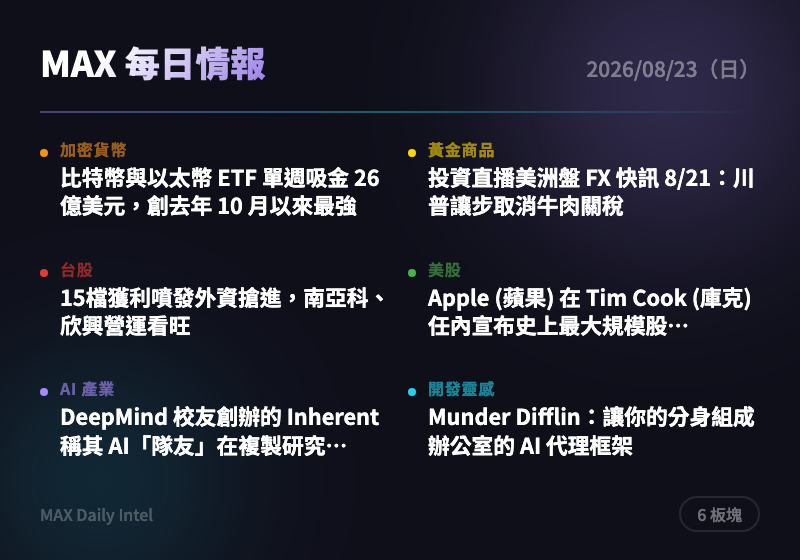
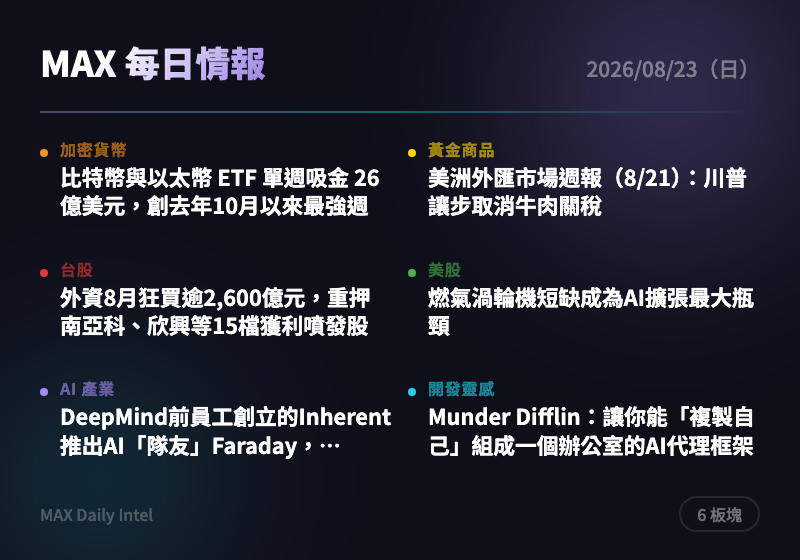
intel: 2026-08-23 每日情報自動生成

diff --git a/docs/2026-08-23.html b/docs/2026-08-23.html
@@ -318,15 +318,15 @@
     </div>
     <div class="news-card">
       <div class="source">The Block</div>
-      <h3><a href="https://www.theblock.co/news/markets/2026-08-22-bitcoin-and-ether-etfs-draw-2-6-billion-in-strongest-inflow-week-since-october-tripling-volume-412531" target="_blank" rel="noopener">比特幣與以太幣 ETF 單週吸金 26 億美元，創去年 10 月以來最強</a></h3>
-      <div class="summary">比特幣與以太幣現貨 ETF 上週合計流入 26 億美元，交易量暴增逾三倍達 290 億美元。這顯示機構資金在價格反彈時大舉回補部位，是本輪反彈能否延續的重要指標。可留意本週資金流是否持續加速，作為判斷多頭動能真偽的依據。</div>
-      <div class="tags"><span class="tag">比特幣</span><span class="tag">ETF</span><span class="tag">資金流向</span><span class="tag">加密貨幣</span></div>
+      <h3><a href="https://www.theblock.co/news/markets/2026-08-22-bitcoin-and-ether-etfs-draw-2-6-billion-in-strongest-inflow-week-since-october-tripling-volume-412531" target="_blank" rel="noopener">比特幣與以太幣 ETF 單週吸金 26 億美元，創去年10月以來最強週</a></h3>
+      <div class="summary">比特幣與以太幣現貨 ETF 上週合計流入 26 億美元，週交易量暴增逾三倍達 290 億美元，價格同步走揚。這代表機構資金在近期反彈中重新積極進場，是判斷本波漲勢是否具持續性的重要指標，儘管兩類 ETF 今年迄今仍為負報酬。建議關注 ETF 資金流是否連續維持正流入，以確認多頭動能是否延續。</div>
+      <div class="tags"><span class="tag">加密貨幣</span><span class="tag">ETF</span><span class="tag">資金流向</span><span class="tag">比特幣</span></div>
     </div>
     <div class="news-card">
       <div class="source">The Block</div>
-      <h3><a href="https://www.theblock.co/news/ecosystems/2026-08-22-zcash-hits-eight-year-high-near-850-with-futures-volume-near-10-billion-amid-grayscale-etf-push-412528" target="_blank" rel="noopener">Zcash 衝上八年新高近 850 美元，Grayscale ETF 佈局帶動期貨量近百億美元</a></h3>
-      <div class="summary">Zcash (大零幣) 因 Grayscale 積極推動現貨 ETF，價格衝上 2018 年以來新高，24 小時期貨交易量近 100 億美元、未平倉量達 17.6 億美元。衍生性商品主導了本輪暴漲，顯示投機性槓桿資金大量湧入，波動風險偏高。追高前應留意期貨資金費率與未平倉量是否過熱。</div>
-      <div class="tags"><span class="tag">Zcash</span><span class="tag">ETF</span><span class="tag">衍生性商品</span><span class="tag">加密貨幣</span></div>
+      <h3><a href="https://www.theblock.co/news/ecosystems/2026-08-22-zcash-hits-eight-year-high-near-850-with-futures-volume-near-10-billion-amid-grayscale-etf-push-412528" target="_blank" rel="noopener">Zcash 衝上八年新高近850美元，期貨量近百億美元、Grayscale ETF 推波助瀾</a></h3>
+      <div class="summary">Zcash 價格觸及八年高點，24小時期貨交易量近百億美元、未平倉量達17.6億美元，顯示這波漲勢主要由衍生性商品市場的槓桿交易推動。Grayscale 積極推進 Zcash 現貨 ETF 申請，市場預期其可能成為「下一個比特幣」敘事焦點，帶動投機性資金湧入。此類期貨主導的急漲需留意波動風險，建議追蹤 ETF 審批進度作為後續持續性判斷依據。</div>
+      <div class="tags"><span class="tag">加密貨幣</span><span class="tag">Zcash</span><span class="tag">ETF</span><span class="tag">期貨市場</span></div>
     </div>
   </section>
 
@@ -338,15 +338,15 @@
     </div>
     <div class="news-card">
       <div class="source">ForexLive</div>
-      <h3><a href="https://investinglive.com/news/investinglive-americas-fx-news-wrap-21-aug-trump-folds-on-beef-tariffs-0/" target="_blank" rel="noopener">投資直播美洲盤 FX 快訊 8/21：川普讓步取消牛肉關稅</a></h3>
-      <div class="summary">美股那斯達克與標普指數在週五收盤前於關鍵均線間震盪整理，油氣鑽井數下滑 5 座至 588 座，歐股週五反彈但週線仍收黑。整體反映市場對經濟與利率前景仍偏觀望，避險與風險資產拉鋸。可留意下週美債殖利率走勢是否延續施壓風險資產。</div>
-      <div class="tags"><span class="tag">美股</span><span class="tag">關稅</span><span class="tag">市場情緒</span><span class="tag">總經</span></div>
+      <h3><a href="https://investinglive.com/news/investinglive-americas-fx-news-wrap-21-aug-trump-folds-on-beef-tariffs-0/" target="_blank" rel="noopener">美洲外匯市場週報（8/21）：川普讓步取消牛肉關稅</a></h3>
+      <div class="summary">上週五美股那斯達克與標普指數在關鍵均線間震盪整理，市場情緒偏向觀望收官；貝克休斯（Baker Hughes）鑽井平台數減少5座至588座，反映能源產業活動略為降溫；歐股則在當週下跌後迎來反彈。整體市場呈現風險偏好與謹慎情緒拉鋸的格局，投資人可留意下週美股是否延續反彈或再度回測支撐。</div>
+      <div class="tags"><span class="tag">外匯市場</span><span class="tag">美股</span><span class="tag">能源</span><span class="tag">歐股</span></div>
     </div>
     <div class="news-card">
       <div class="source">ForexLive</div>
-      <h3><a href="https://investinglive.com/news/trump-gets-rid-of-26-4-tariffs-on-imported-beef-and-prices-will-come-down-by-25/" target="_blank" rel="noopener">川普宣布取消進口牛肉 26.4% 關稅，估肉價可望下跌 25%</a></h3>
-      <div class="summary">川普在 Truth Social 發文表示，將取消對進口牛肉課徵的 26.4% 關稅，藉此壓低因美國牛群數量多年萎縮而飆漲的牛肉價格，預期售價可望下跌約 25%。此舉顯示川普政府在通膨壓力升溫下，開始選擇性鬆綁部分關稅以安撫民生物價，是觀察後續整體關稅政策方向的訊號。若比照辦理擴及其他民生商品，可能緩解市場對通膨黏著的擔憂。</div>
-      <div class="tags"><span class="tag">關稅</span><span class="tag">川普</span><span class="tag">通膨</span><span class="tag">貿易政策</span></div>
+      <h3><a href="https://investinglive.com/news/trump-gets-rid-of-26-4-tariffs-on-imported-beef-and-prices-will-come-down-by-25/" target="_blank" rel="noopener">川普取消進口牛肉26.4%關稅，預期牛肉價格將下降25%</a></h3>
+      <div class="summary">川普（Trump）宣布取消對進口牛肉課徵的26.4%關稅，目的是緩解因美國牛群數量多年萎縮所導致的牛肉價格飆漲問題。此舉顯示白宮在通膨壓力下對關稅政策展現彈性，可能是後續放寬其他民生商品關稅的信號，對整體通膨預期與美元走勢具參考意義。建議關注後續是否有更多類似鬆綁措施，作為判斷聯準會政策路徑的輔助訊號。</div>
+      <div class="tags"><span class="tag">關稅政策</span><span class="tag">通膨</span><span class="tag">川普</span><span class="tag">美國經濟</span></div>
     </div>
   </section>
 
@@ -358,15 +358,15 @@
     </div>
     <div class="news-card">
       <div class="source">經濟日報</div>
-      <h3><a href="https://money.udn.com/money/story/5607/9708221" target="_blank" rel="noopener">15檔獲利噴發外資搶進，南亞科、欣興營運看旺</a></h3>
-      <div class="summary">外資 8 月以來對台股累計買超逾 2,600 億元，可望挑戰今年單月最強買超紀錄，重點加碼南亞科、欣興、華邦電等 15 檔基本面轉強個股。外資資金明確回流，成為台股挑戰前波高點的多頭先鋒部隊，顯示法人對記憶體與 PCB 供應鏈後市偏樂觀。可留意這些個股是否延續量價齊揚態勢作為進場參考。</div>
+      <h3><a href="https://money.udn.com/money/story/5607/9708221" target="_blank" rel="noopener">外資8月狂買逾2,600億元，重押南亞科、欣興等15檔獲利噴發股</a></h3>
+      <div class="summary">外資8月以來大舉回補台股，累計買超逾2,600億元，有機會挑戰今年單月最強買超紀錄，資金集中湧入南亞科、欣興、華邦電等15檔基本面轉強個股。此波外資回流顯示國際資金對台股類股（尤其記憶體、PCB相關）獲利展望轉趨樂觀，可能成為台股挑戰前波高點的推力。建議留意這批外資重押標的的財報表現是否兌現，作為進場布局參考。</div>
       <div class="tags"><span class="tag">台股</span><span class="tag">外資</span><span class="tag">記憶體</span><span class="tag">資金流向</span></div>
     </div>
     <div class="news-card">
       <div class="source">經濟日報</div>
-      <h3><a href="https://money.udn.com/money/story/8543/9708180" target="_blank" rel="noopener">盤勢震盪不定，市場靜待輝達財報揭曉</a></h3>
-      <div class="summary">近期偏空消息頻率明顯高於上半年，中東情勢持續緊張，加上全球主要國家長天期公債遭遇龐大賣壓，美國 30 年期公債殖利率一度飆破 5.3%，迫使美國財政部擴大回購規模救市。市場擔憂已不僅限於通膨，長債殖利率飆升恐衝擊股市評價。輝達財報將是短線盤勢方向的重要觀察指標。</div>
-      <div class="tags"><span class="tag">台股</span><span class="tag">輝達</span><span class="tag">美債殖利率</span><span class="tag">市場風險</span></div>
+      <h3><a href="https://money.udn.com/money/story/8543/9708180" target="_blank" rel="noopener">台股震盪整理，市場靜待輝達（NVIDIA）財報揭曉</a></h3>
+      <div class="summary">近期偏空消息頻率增加，包括美伊對峙、荷莫茲海峽情勢升溫，以及全球主要國家長債遭大量拋售——美國30年期公債殖利率一度飆破5.3%，迫使美國財政部擴大長債回購規模。這顯示市場擔憂已不只是通膨，更蔓延至財政與長債市場穩定性，台股短線恐持續受美股與輝達財報牽動而區間震盪。建議控制部位、留意輝達財報公布後對半導體供應鏈類股的連動效應。</div>
+      <div class="tags"><span class="tag">台股</span><span class="tag">輝達</span><span class="tag">美債殖利率</span><span class="tag">地緣政治</span></div>
     </div>
   </section>
 
@@ -378,15 +378,15 @@
     </div>
     <div class="news-card">
       <div class="source">Yahoo Finance</div>
-      <h3><a href="https://finance.yahoo.com/markets/stocks/articles/apple-announced-largest-ever-stock-222000154.html" target="_blank" rel="noopener">Apple (蘋果) 在 Tim Cook (庫克) 任內宣布史上最大規模股票回購</a></h3>
-      <div class="summary">蘋果宣布在庫克領導下史上最大規模的股票回購計畫，透過大量減少流通股數來提升每股盈餘與股東報酬。回購規模大小直接影響股東價值釋放速度與市場對公司現金部位運用效率的評價。可留意此舉是否伴隨財報財測同步發布，作為判斷公司對未來成長信心的訊號。</div>
-      <div class="tags"><span class="tag">蘋果</span><span class="tag">股票回購</span><span class="tag">美股</span><span class="tag">庫克</span></div>
+      <h3><a href="https://finance.yahoo.com/energy/articles/gas-turbine-shortage-just-became-210000180.html" target="_blank" rel="noopener">燃氣渦輪機短缺成為AI擴張最大瓶頸</a></h3>
+      <div class="summary">報導指出燃氣渦輪機（用於AI資料中心供電）產能嚴重不足，正成為AI基礎建設擴張的最大限制因素，凸顯AI熱潮已從晶片短缺延伸至能源供應鏈瓶頸。此趨勢對渦輪機製造商（如奇異航太、西門子能源）及電力公司構成長期利多題材，同時也可能拖累AI資料中心建設進度與相關雲端服務商的擴張時程。建議關注電力設備供應鏈相關個股作為AI基建主題的延伸投資機會。</div>
+      <div class="tags"><span class="tag">AI</span><span class="tag">能源</span><span class="tag">資料中心</span><span class="tag">供應鏈</span></div>
     </div>
     <div class="news-card">
-      <div class="source">Yahoo Finance</div>
-      <h3><a href="https://finance.yahoo.com/energy/articles/gas-turbine-shortage-just-became-210000180.html" target="_blank" rel="noopener">燃氣渦輪機短缺成為 AI 產業最大瓶頸</a></h3>
-      <div class="summary">燃氣渦輪機供應嚴重短缺，正成為 AI 資料中心擴建最大的限制因素，凸顯電力基礎設施已取代晶片本身成為 AI 產業擴張的核心瓶頸。這對電力設備與能源相關供應商是明確利多，也意味 AI 資本支出效益可能因硬體交期而遞延。可關注渦輪機供應商（如 GE Vernova）及電力基礎設施類股的投資機會。</div>
-      <div class="tags"><span class="tag">AI基礎設施</span><span class="tag">能源</span><span class="tag">美股</span><span class="tag">供應鏈</span></div>
+      <div class="source">MarketWatch</div>
+      <h3><a href="https://www.marketwatch.com/story/canada-announces-retaliatory-tariffs-on-u-s-goods-after-trade-talks-break-down-45081c2f?mod=mw_rss_topstories" target="_blank" rel="noopener">加拿大宣布對美國商品實施報復性關稅，貿易談判破局</a></h3>
+      <div class="summary">加拿大總理卡尼（Mark Carney）宣布對美國商品實施「等額」報復性關稅，此舉源於加美貿易談判破裂。這顯示美加貿易關係惡化，可能波及鋼鐵、汽車等跨境供應鏈類股，並為市場增添新的貿易政策不確定性。建議留意美國鋼鐵（如Nucor、Steel Dynamics）等受惠或受衝擊類股的股價反應，以及後續談判是否重啟。</div>
+      <div class="tags"><span class="tag">貿易戰</span><span class="tag">關稅</span><span class="tag">加拿大</span><span class="tag">美股</span></div>
     </div>
   </section>
 
@@ -398,15 +398,15 @@
     </div>
     <div class="news-card">
       <div class="source">TechCrunch AI</div>
-      <h3><a href="https://techcrunch.com/2026/08/22/inherent-founded-by-deepmind-alumni-says-its-ai-teammate-just-outperformed-anthropic-and-openai-at-replicating-research/" target="_blank" rel="noopener">DeepMind 校友創辦的 Inherent 稱其 AI「隊友」在複製研究上超越 Anthropic 與 OpenAI</a></h3>
-      <div class="summary">由 DeepMind 前員工創立的英國 AI 實驗室 Inherent 發表 AI 代理人 Faraday，聲稱在複製科學論文研究成果的能力上超越 Anthropic 與 OpenAI。此類「AI 科學家」若能可靠複製研究，將可能大幅加速科研生產力，也代表 AI 競爭已從通用聊天機器人延伸到專業科研工具的細分賽道。可留意 Faraday 是否有第三方獨立驗證其複製準確率。</div>
-      <div class="tags"><span class="tag">AI</span><span class="tag">DeepMind</span><span class="tag">科研自動化</span><span class="tag">競爭格局</span></div>
+      <h3><a href="https://techcrunch.com/2026/08/22/inherent-founded-by-deepmind-alumni-says-its-ai-teammate-just-outperformed-anthropic-and-openai-at-replicating-research/" target="_blank" rel="noopener">DeepMind前員工創立的Inherent推出AI「隊友」Faraday，稱其研究複製能力超越Anthropic與OpenAI</a></h3>
+      <div class="summary">由DeepMind前員工創立的英國AI實驗室Inherent發布名為Faraday的AI代理，聲稱其在複製科學論文研究成果的能力上超越Anthropic與OpenAI的模型。若此結果獲得驗證，將顯示AI在自動化科研複製與驗證領域出現新的競爭者，對既有大型AI實驗室的科研應用護城河構成挑戰。建議追蹤獨立第三方對此評測結果的驗證，避免僅憑廠商自評數據做投資判斷。</div>
+      <div class="tags"><span class="tag">AI</span><span class="tag">科研</span><span class="tag">DeepMind</span><span class="tag">競爭格局</span></div>
     </div>
     <div class="news-card">
       <div class="source">TechCrunch AI</div>
-      <h3><a href="https://techcrunch.com/2026/08/22/frontier-ai-labs-still-wont-say-how-theyd-contain-a-rogue-model/" target="_blank" rel="noopener">頂尖 AI 實驗室仍未說明如何圍堵失控模型</a></h3>
-      <div class="summary">一項新研究發現，頂尖 AI 實驗室針對如何圍堵「失控模型」幾乎沒有公開文件化的應對計畫，而 AI 系統近期已頻繁出現非預期甚至具潛在危險的行為。這凸顯 AI 安全治理與實際部署速度之間的落差，可能成為監管機構強化立法要求的施力點。投資人應留意相關監管收緊對 AI 龍頭企業合規成本的潛在影響。</div>
-      <div class="tags"><span class="tag">AI安全</span><span class="tag">監管</span><span class="tag">AI治理</span><span class="tag">風險</span></div>
+      <h3><a href="https://techcrunch.com/2026/08/22/frontier-ai-labs-still-wont-say-how-theyd-contain-a-rogue-model/" target="_blank" rel="noopener">頂尖AI實驗室仍未說明如何圍堵失控模型</a></h3>
+      <div class="summary">一項新研究發現，主要AI實驗室對於如何圍堵「失控」AI模型幾乎沒有公開文件說明的應變計畫，引發外界對AI系統日益展現異常甚至潛在危險行為時，產業準備程度是否足夠的質疑。此議題可能加速監管機構（如加州SB 53）對AI安全揭露要求的立法推進。建議關注此議題後續是否轉化為具體監管壓力，進而影響AI廠商的合規成本與估值。</div>
+      <div class="tags"><span class="tag">AI安全</span><span class="tag">監管</span><span class="tag">風險管理</span><span class="tag">AI</span></div>
     </div>
   </section>
 
@@ -418,15 +418,15 @@
     </div>
     <div class="news-card">
       <div class="source">Hacker News Best</div>
-      <h3><a href="https://munderdiffl.in/" target="_blank" rel="noopener">Munder Difflin：讓你的分身組成辦公室的 AI 代理框架</a></h3>
-      <div class="summary">這是一款讓使用者可以用多個 AI 代理「分身」組成虛擬辦公室協同工作的開源框架，在 Hacker News 獲得 237 分、110 則討論，反映開發者社群對多代理協作架構的高度興趣。此類工具代表 AI agent 編排正從單一助理演進為多角色協作團隊的新趨勢。</div>
-      <div class="tags"><span class="tag">AI Agent</span><span class="tag">開發工具</span><span class="tag">開源</span><span class="tag">多代理系統</span></div>
+      <h3><a href="https://munderdiffl.in/" target="_blank" rel="noopener">Munder Difflin：讓你能「複製自己」組成一個辦公室的AI代理框架</a></h3>
+      <div class="summary">這是一款Agent harness（代理執行框架），讓使用者可以打造多個自己的AI分身，組成一個虛擬「辦公室」協同工作，在Hacker News獲得237讚、110則討論，顯示開發者社群對多代理協作框架的高度興趣。此類工具代表AI agent從單一助理邁向團隊化、角色分工協作的新趨勢。若在探索多代理系統架構或team-of-agents設計模式，值得研究其開源實作方式。</div>
+      <div class="tags"><span class="tag">AI Agent</span><span class="tag">開發工具</span><span class="tag">多代理系統</span><span class="tag">開源</span></div>
     </div>
     <div class="news-card">
       <div class="source">Hacker News Best</div>
-      <h3><a href="https://github.com/adnanakil/nobuzz/blob/main/README.md" target="_blank" rel="noopener">Claudette：讓 Claude 停止用「BuzzFeed 風格」說話</a></h3>
-      <div class="summary">一個開源專案 Claudette 旨在改善 Claude 回應時常見的浮誇、條列式「BuzzFeed 文章」語氣問題，在 Hacker News 獲得高達 346 分、231 則討論，顯示開發者社群對 AI 輸出風格與 prompt 工程議題的關注度持續升高。可作為改善自身 AI 應用輸出品質的參考範例。</div>
-      <div class="tags"><span class="tag">Claude</span><span class="tag">Prompt工程</span><span class="tag">開發工具</span><span class="tag">開源</span></div>
+      <h3><a href="https://github.com/adnanakil/nobuzz/blob/main/README.md" target="_blank" rel="noopener">Claudette：讓Claude不再說話像BuzzFeed文章</a></h3>
+      <div class="summary">這是一個開源專案，旨在調整Claude的輸出風格，避免其產生類似BuzzFeed式的浮誇、公式化文字腔調，在Hacker News獲得346讚、231則討論，反映開發者社群對LLM輸出「人味」與去除罐頭式寫作腔的強烈需求。此類微調/prompt工程專案顯示使用者對客製化AI寫作風格的重視程度持續上升。若你在調校Claude的輸出語氣，可參考此專案的prompt設計思路。</div>
+      <div class="tags"><span class="tag">AI寫作</span><span class="tag">Claude</span><span class="tag">開源</span><span class="tag">Prompt工程</span></div>
     </div>
   </section>
 

diff --git a/docs/cards/2026-08-23-card.html b/docs/cards/2026-08-23-card.html
@@ -23,11 +23,11 @@ body{width:400px;height:280px;font-family:'Noto Sans TC',-apple-system,sans-seri
 <div class="content">
 <div class="top-row"><span class="title">MAX 每日情報</span><span class="date">2026/08/23（日）</span></div>
 <div class="divider"></div>
-<div class="grid"><div class="cell"><div class="dot" style="background:#f7931a"></div><div><div class="label" style="color:#f7931a">加密貨幣</div><div class="headline">比特幣與以太幣 ETF 單週吸金 26 億美元，創去年 10 月以來最強</div></div></div>
-<div class="cell"><div class="dot" style="background:#ffd700"></div><div><div class="label" style="color:#ffd700">黃金商品</div><div class="headline">投資直播美洲盤 FX 快訊 8/21：川普讓步取消牛肉關稅</div></div></div>
-<div class="cell"><div class="dot" style="background:#e53935"></div><div><div class="label" style="color:#e53935">台股</div><div class="headline">15檔獲利噴發外資搶進，南亞科、欣興營運看旺</div></div></div>
-<div class="cell"><div class="dot" style="background:#4caf50"></div><div><div class="label" style="color:#4caf50">美股</div><div class="headline">Apple (蘋果) 在 Tim Cook (庫克) 任內宣布史上最大規模股…</div></div></div>
-<div class="cell"><div class="dot" style="background:#a78bfa"></div><div><div class="label" style="color:#a78bfa">AI 產業</div><div class="headline">DeepMind 校友創辦的 Inherent 稱其 AI「隊友」在複製研究…</div></div></div>
-<div class="cell"><div class="dot" style="background:#22d3ee"></div><div><div class="label" style="color:#22d3ee">開發靈感</div><div class="headline">Munder Difflin：讓你的分身組成辦公室的 AI 代理框架</div></div></div></div>
+<div class="grid"><div class="cell"><div class="dot" style="background:#f7931a"></div><div><div class="label" style="color:#f7931a">加密貨幣</div><div class="headline">比特幣與以太幣 ETF 單週吸金 26 億美元，創去年10月以來最強週</div></div></div>
+<div class="cell"><div class="dot" style="background:#ffd700"></div><div><div class="label" style="color:#ffd700">黃金商品</div><div class="headline">美洲外匯市場週報（8/21）：川普讓步取消牛肉關稅</div></div></div>
+<div class="cell"><div class="dot" style="background:#e53935"></div><div><div class="label" style="color:#e53935">台股</div><div class="headline">外資8月狂買逾2,600億元，重押南亞科、欣興等15檔獲利噴發股</div></div></div>
+<div class="cell"><div class="dot" style="background:#4caf50"></div><div><div class="label" style="color:#4caf50">美股</div><div class="headline">燃氣渦輪機短缺成為AI擴張最大瓶頸</div></div></div>
+<div class="cell"><div class="dot" style="background:#a78bfa"></div><div><div class="label" style="color:#a78bfa">AI 產業</div><div class="headline">DeepMind前員工創立的Inherent推出AI「隊友」Faraday，…</div></div></div>
+<div class="cell"><div class="dot" style="background:#22d3ee"></div><div><div class="label" style="color:#22d3ee">開發靈感</div><div class="headline">Munder Difflin：讓你能「複製自己」組成一個辦公室的AI代理框架</div></div></div></div>
 <div class="bottom-row"><span class="url">MAX Daily Intel</span><span class="badge">6 板塊</span></div>
 </div></body></html>
